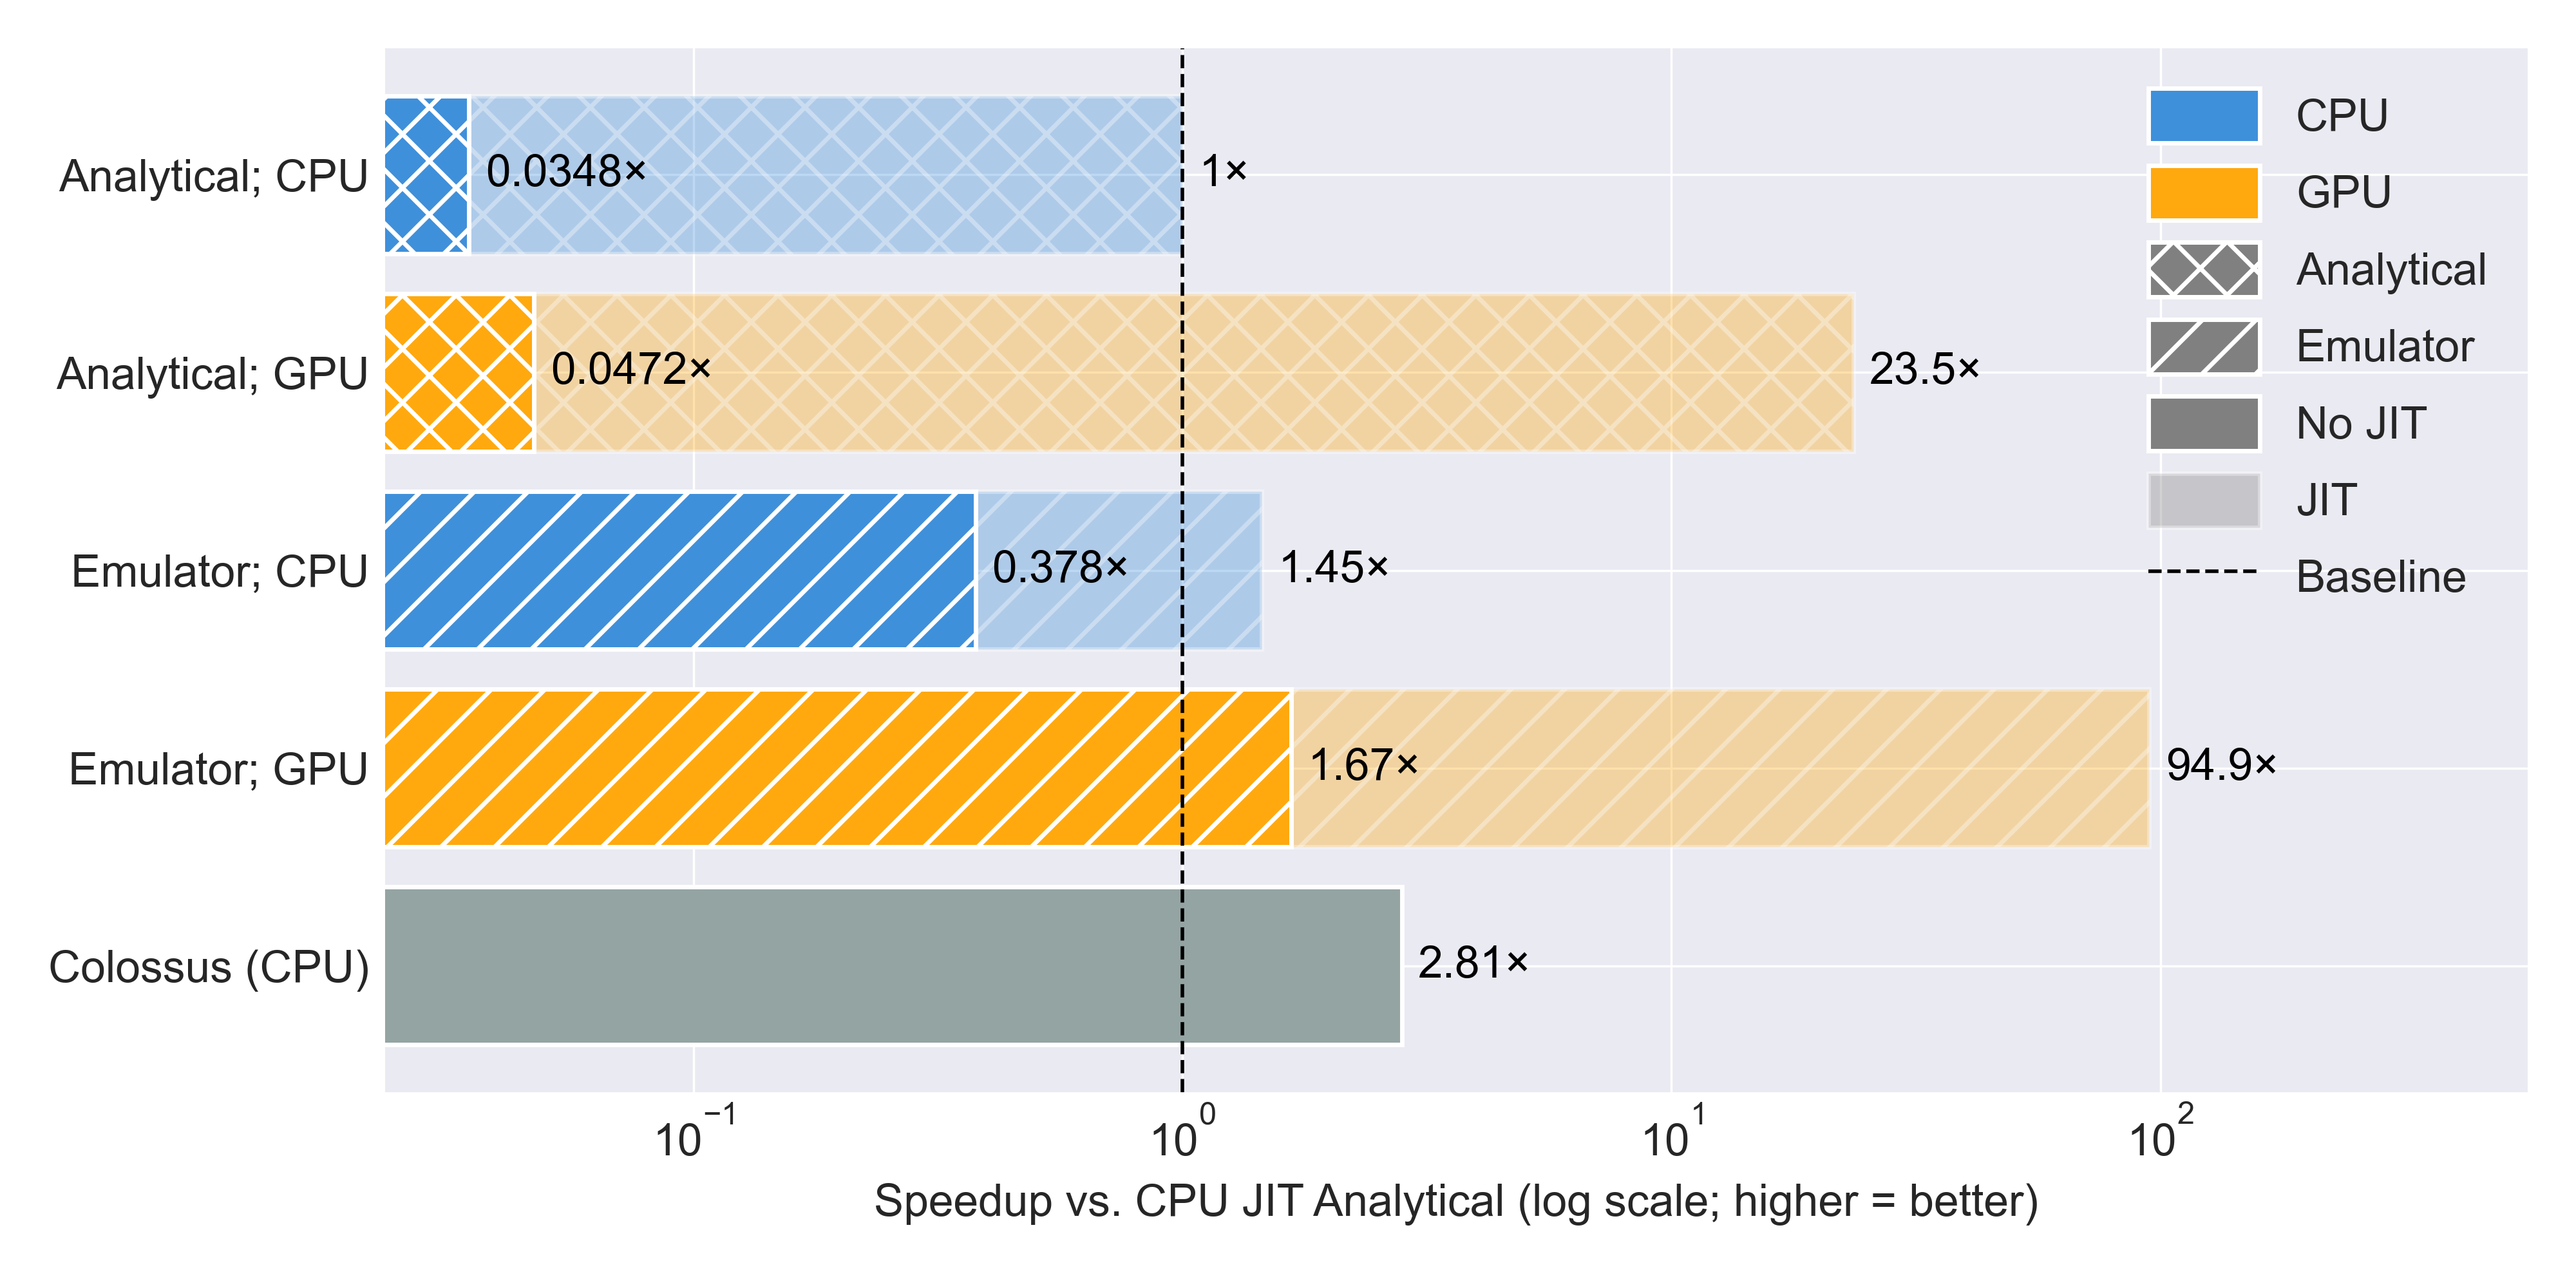
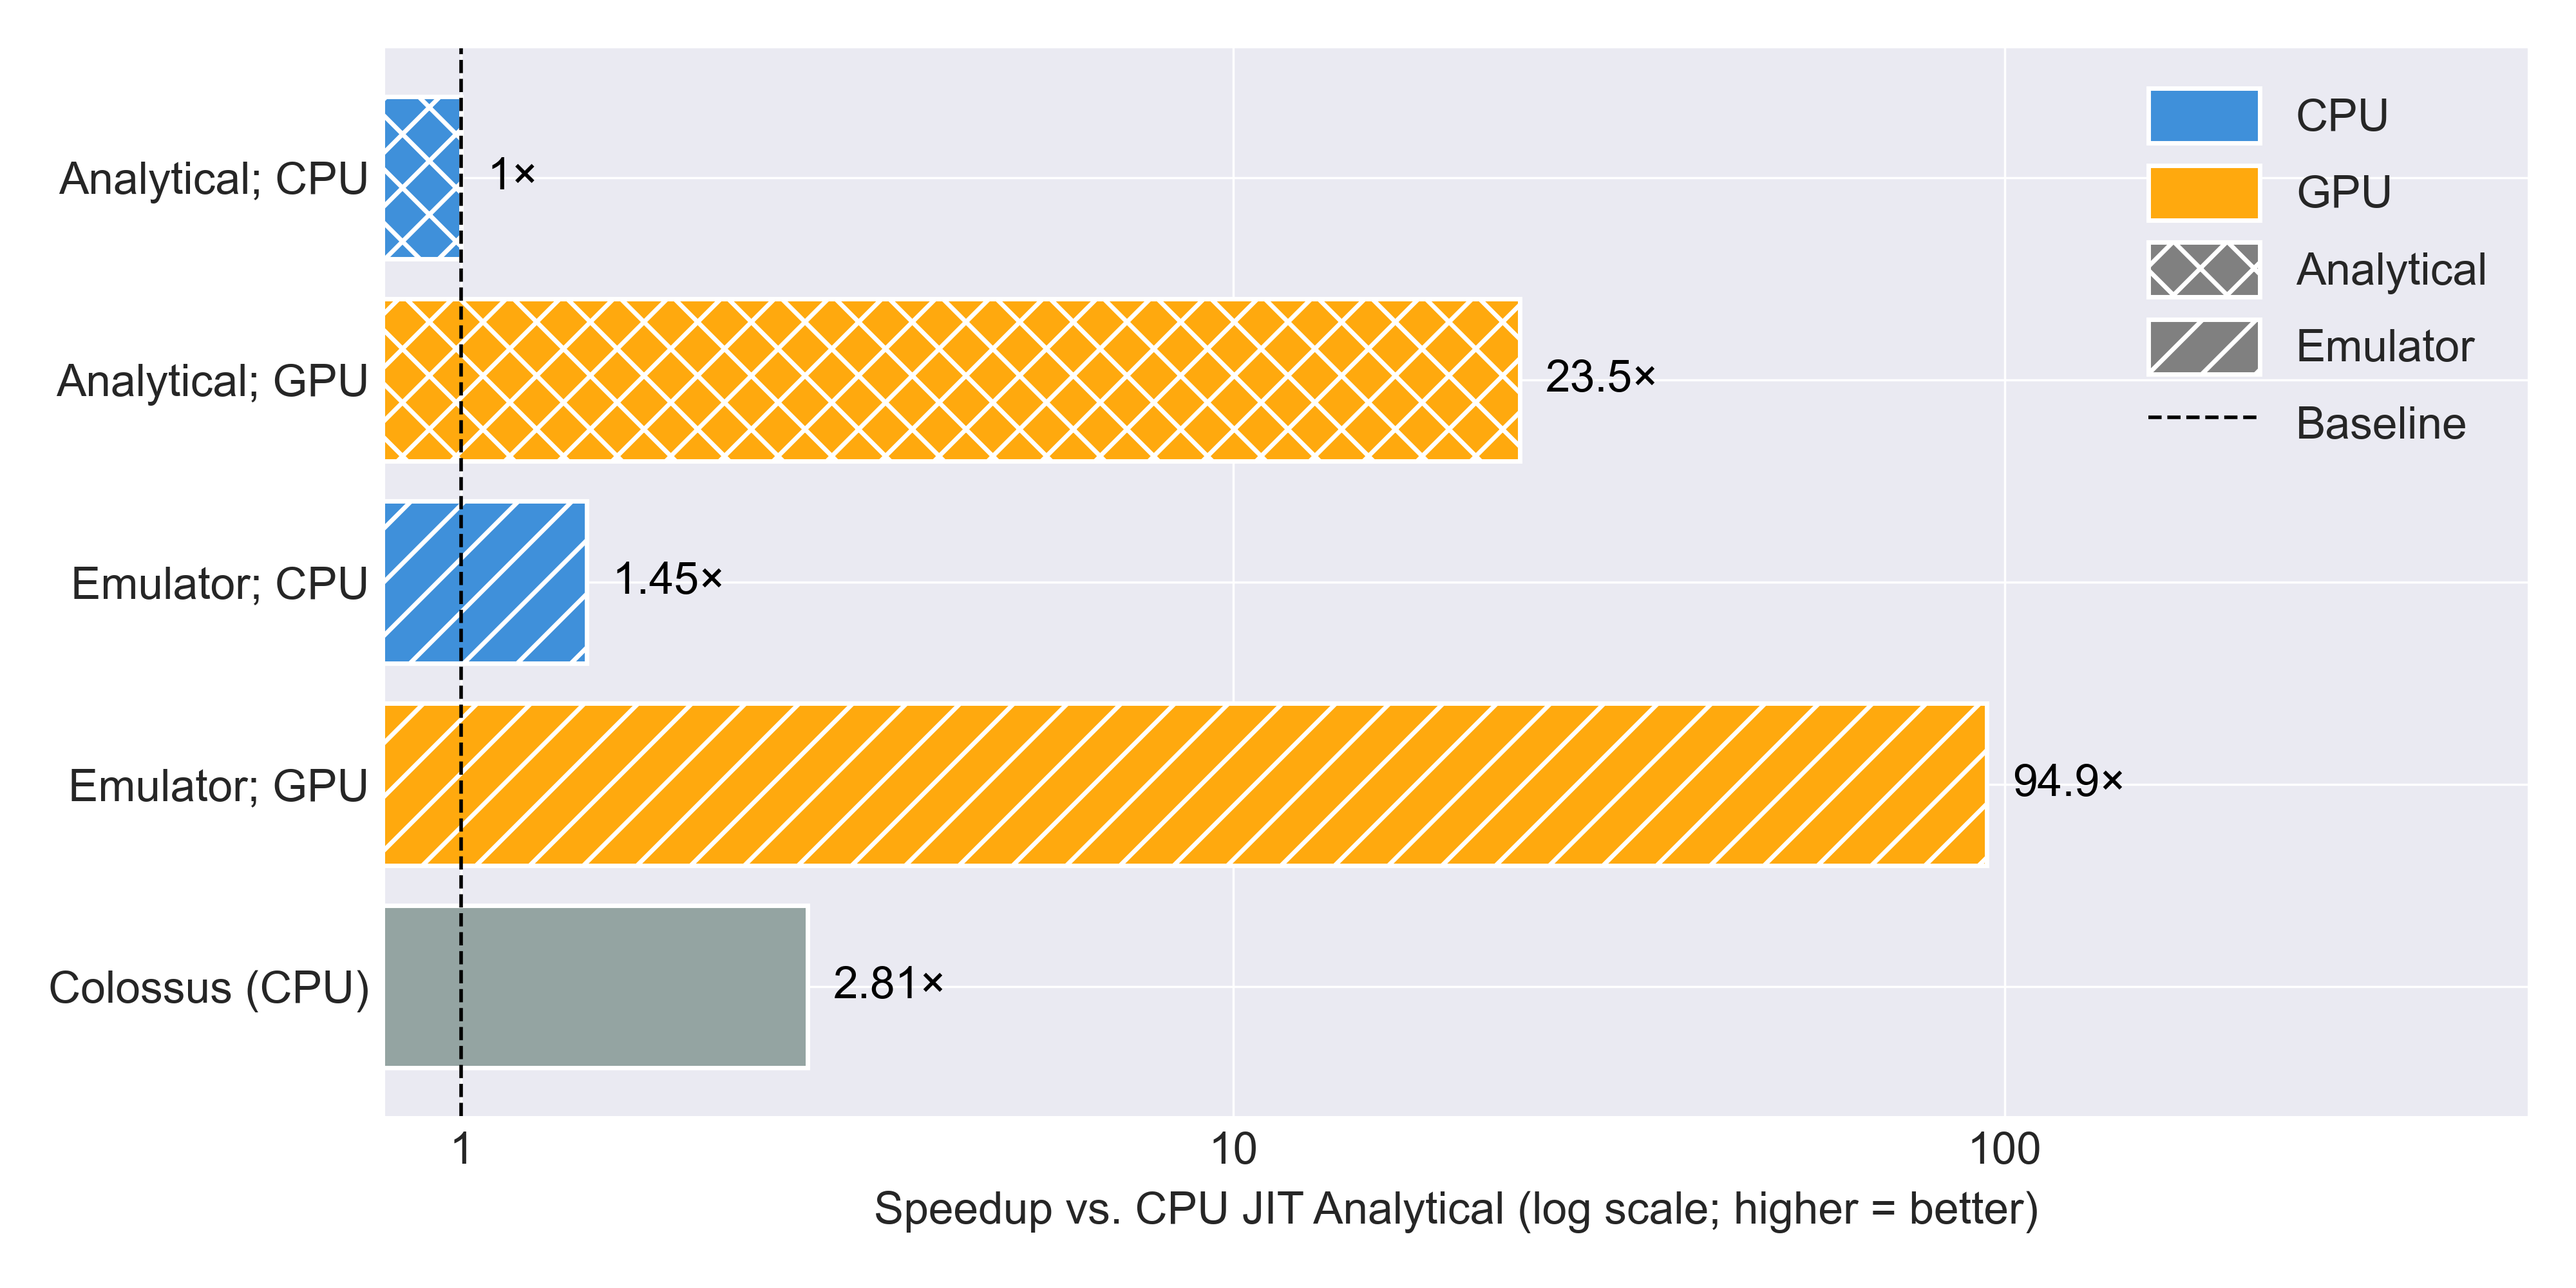
update benchmark plot

diff --git a/paper/figure_scripts/plot_benchmark.py b/paper/figure_scripts/plot_benchmark.py
@@ -3,9 +3,18 @@
 Speedup is relative to the CPU JIT Analytical baseline.
 """
 
+import argparse
 import pandas as pd
 import matplotlib.pyplot as plt
 from matplotlib.patches import Patch
+
+parser = argparse.ArgumentParser(description=__doc__)
+parser.add_argument(
+    "--nojit",
+    action="store_true",
+    help="Also plot the No JIT bars alongside the JIT bars.",
+)
+args = parser.parse_args()
 
 plt.style.use(["seaborn-v0_8-darkgrid", "petroff10"])
 plt.rcParams.update({"xtick.direction": "in", "ytick.direction": "in"})
@@ -33,44 +42,64 @@ hatches = [r"xx" if "Analytical" in lbl else r"//" for lbl in pivot.index]
 
 fig, ax = plt.subplots(figsize=(8, 4))
 
-# Full bar: JIT speedup (transparent)
-ax.barh(
-    pivot.index,
-    pivot["JIT"],
-    color=colors,
-    hatch=hatches,
-    edgecolor="white",
-    alpha=0.35,
-)
-# Overlapping bar: No JIT speedup (opaque)
-ax.barh(
-    pivot.index,
-    pivot["No JIT"],
-    color=colors,
-    hatch=hatches,
-    edgecolor="white",
-    alpha=1.0,
-)
+if args.nojit:
+    # Full bar: JIT speedup (transparent)
+    ax.barh(
+        pivot.index,
+        pivot["JIT"],
+        color=colors,
+        hatch=hatches,
+        edgecolor="white",
+        alpha=0.35,
+    )
+    # Overlapping bar: No JIT speedup (opaque)
+    ax.barh(
+        pivot.index,
+        pivot["No JIT"],
+        color=colors,
+        hatch=hatches,
+        edgecolor="white",
+        alpha=1.0,
+    )
 
-for i, (_, row) in enumerate(pivot.iterrows()):
-    ax.text(
-        row["JIT"] * 1.08,
-        i,
-        f"{row['JIT']:.3g}×",
-        va="center",
-        ha="left",
-        color="k",
-        fontsize=10,
+    for i, (_, row) in enumerate(pivot.iterrows()):
+        ax.text(
+            row["JIT"] * 1.08,
+            i,
+            f"{row['JIT']:.3g}×",
+            va="center",
+            ha="left",
+            color="k",
+            fontsize=10,
+        )
+        ax.text(
+            row["No JIT"] * 1.08,
+            i,
+            f"{row['No JIT']:.3g}×",
+            va="center",
+            ha="left",
+            color="k",
+            fontsize=10,
+        )
+else:
+    ax.barh(
+        pivot.index,
+        pivot["JIT"],
+        color=colors,
+        hatch=hatches,
+        edgecolor="white",
+        alpha=1.0,
     )
-    ax.text(
-        row["No JIT"] * 1.08,
-        i,
-        f"{row['No JIT']:.3g}×",
-        va="center",
-        ha="left",
-        color="k",
-        fontsize=10,
-    )
+    for i, (_, row) in enumerate(pivot.iterrows()):
+        ax.text(
+            row["JIT"] * 1.08,
+            i,
+            f"{row['JIT']:.3g}×",
+            va="center",
+            ha="left",
+            color="k",
+            fontsize=10,
+        )
 
 ax.barh(
     ["Colossus (CPU)"],
@@ -92,6 +121,8 @@ ax.text(
 ax.axvline(1, color="k", ls="--", lw=0.8)
 ax.invert_yaxis()
 ax.set_xscale("log")
+ax.xaxis.set_major_formatter(plt.matplotlib.ticker.ScalarFormatter())
+ax.xaxis.set_minor_formatter(plt.matplotlib.ticker.NullFormatter())
 ax.set_xlabel("Speedup vs. CPU JIT Analytical (log scale; higher = better)")
 
 legend_handles = [
@@ -101,10 +132,15 @@ legend_handles = [
         facecolor="grey", hatch=r"xx", edgecolor="white", label="Analytical"
     ),
     Patch(facecolor="grey", hatch=r"//", edgecolor="white", label="Emulator"),
-    Patch(facecolor="grey", alpha=1.0, edgecolor="white", label="No JIT"),
-    Patch(facecolor="grey", alpha=0.35, edgecolor="white", label="JIT"),
-    plt.Line2D([0], [0], color="k", ls="--", lw=0.8, label="Baseline"),
 ]
+if args.nojit:
+    legend_handles += [
+        Patch(facecolor="grey", alpha=1.0, edgecolor="white", label="No JIT"),
+        Patch(facecolor="grey", alpha=0.35, edgecolor="white", label="JIT"),
+    ]
+legend_handles.append(
+    plt.Line2D([0], [0], color="k", ls="--", lw=0.8, label="Baseline")
+)
 ax.legend(handles=legend_handles, handlelength=2.5, handleheight=1.5)
 
 xmin, xmax = ax.get_xlim()
